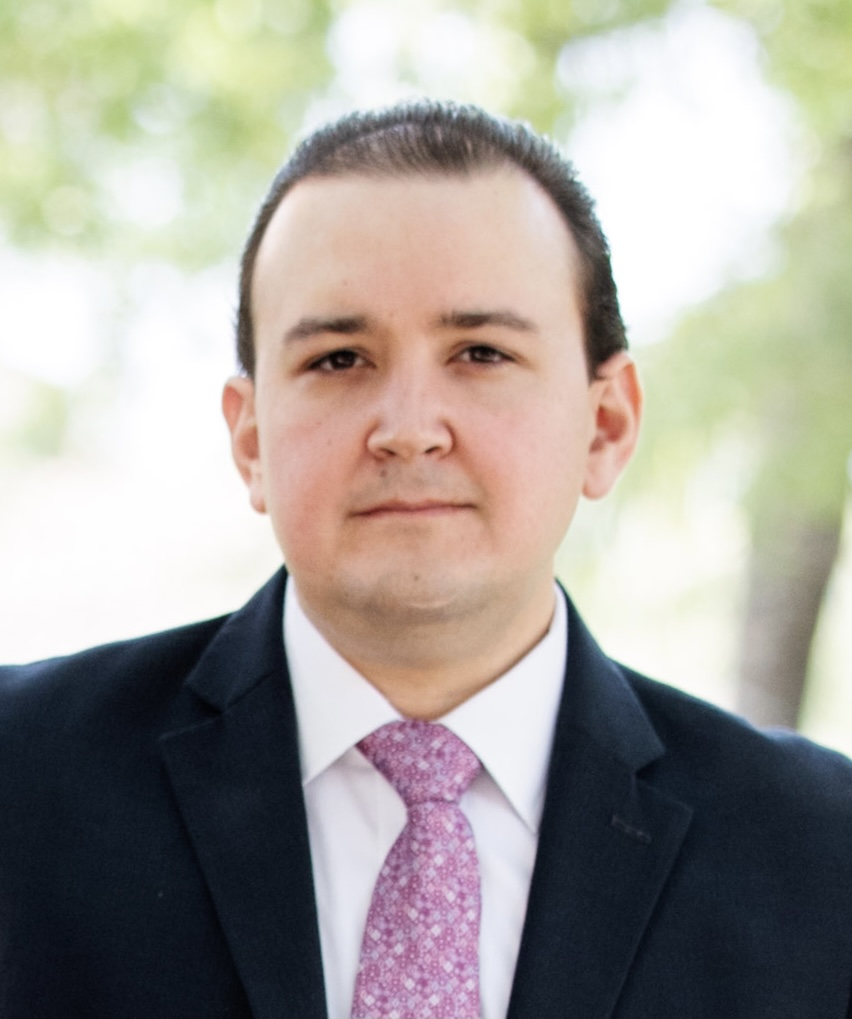
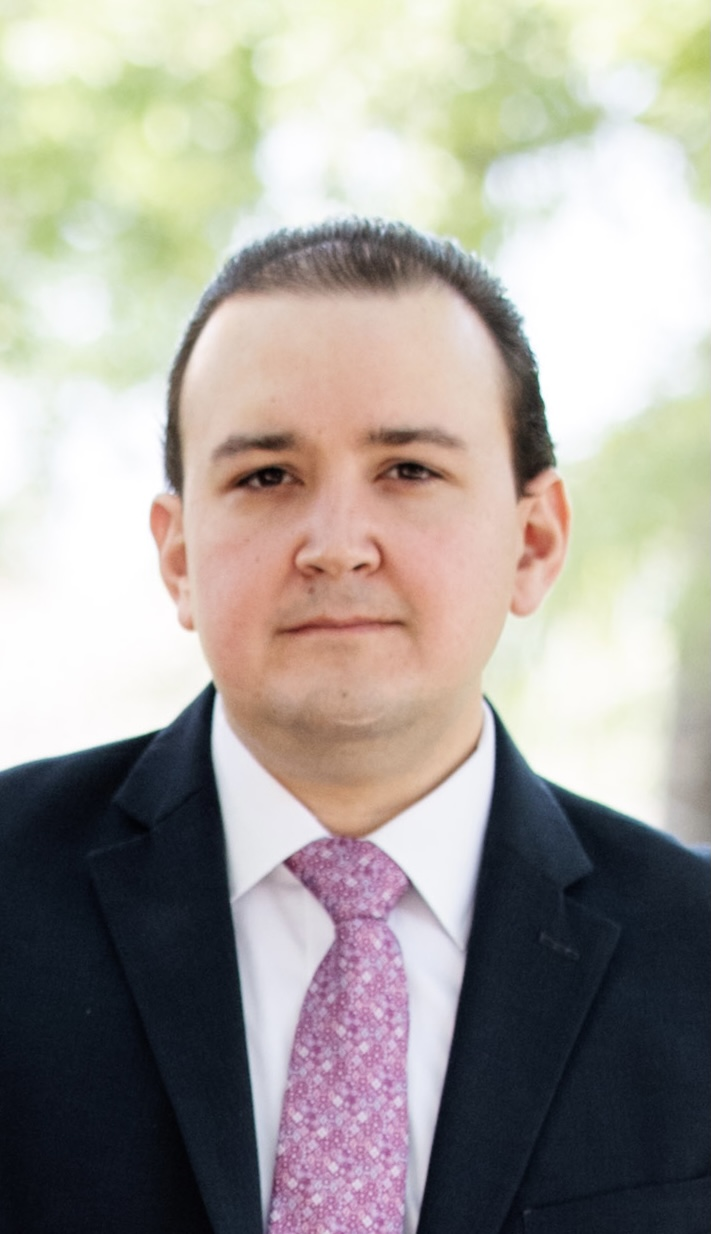
html mod

diff --git a/style.css b/style.css
@@ -9,12 +9,12 @@ body {
   font-family: Georgia, "Times New Roman", Times, serif;
   font-size: 18px;
   line-height: 150%;
-  color: #333;
-  background: #efeee7;
+  color: rgb(0, 0, 0);
+  background: #ecf5ff;
 }
 
 header {
-  background: #333;
+  background: #13121f;
 }
 
 h1 {
@@ -22,7 +22,7 @@ h1 {
   margin: 0;
   margin-bottom: 20px;
   font-size: 28px;
-  color: #eee;
+  color: rgb(0, 217, 255);
   text-align: center;
 }
 
@@ -31,7 +31,7 @@ h2 {
 }
 
 a {
-  color: #d21034;
+  color: rgb(0, 217, 255);
 }
 
 /* Selecting elements by class */
@@ -53,12 +53,13 @@ a {
 
 #bio-name {
   position: absolute;
-  top: 150px;
-  left: 30px;
+  top: -35px;
+  left: 220px;
+  color: rgb(0, 217, 255);
 }
 
 #main-bio {
-  width: 70%;
+  width: 60%;
 }
 
 #contact-info {
@@ -67,6 +68,6 @@ a {
 
 #bio-image {
   width: 200px;
-  height: 200px;
+  height: 320px;
   margin-right: 20px;
 }
